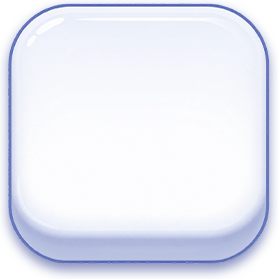
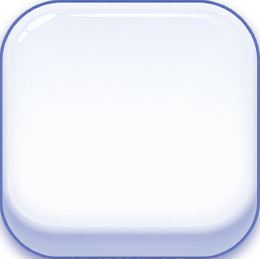
Asset 1 opak gövdeye kırpıldı (yumuşak gölge bandı boşluk yapıyordu); glifler taşı max dolduracak boyuta çıkarıldı

Changed region(s): [[0.0, 0.0, 1.0, 1.0]]

diff --git a/style.css b/style.css
@@ -750,13 +750,21 @@ body.skin-a2 .board .tile .face {
   border-radius: 0;
   box-shadow: none;
   filter: drop-shadow(0 2px 2px rgba(60, 50, 30, 0.16));
-  font-size: 0.86em; /* glif, görselin et payı içinde kalsın */
+  /* glif taşı maksimum doldursun: tema faceScale'inden bağımsız sabit boy
+     (hücre 64px, taş yüzünün kullanılabilir içi ~48px) */
+  font-size: 46px;
 }
 body.skin-a2 .board .tile .face {
   background-image: url("tile assets/tile_asset_2.png");
 }
 /* alttan bakışta yüzün görsel merkezi geometrik merkezden yukarıdadır */
 body.skin-a1 .board .tile .face { padding-bottom: 9%; }
+/* SVG yüzler (şekiller/mücevher) de taşı maksimum doldursun */
+body.skin-a1 .board .tile .face .shape,
+body.skin-a2 .board .tile .face .shape {
+  width: 80%;
+  height: 80%;
+}
 
 /* hatalı taş: zemin/kutu gölgesi yerine kırmızımsı parıltıyla işaretle
    (varsayılan .tile.bad .face kuralı bu seçicilerin altında kalır) */
